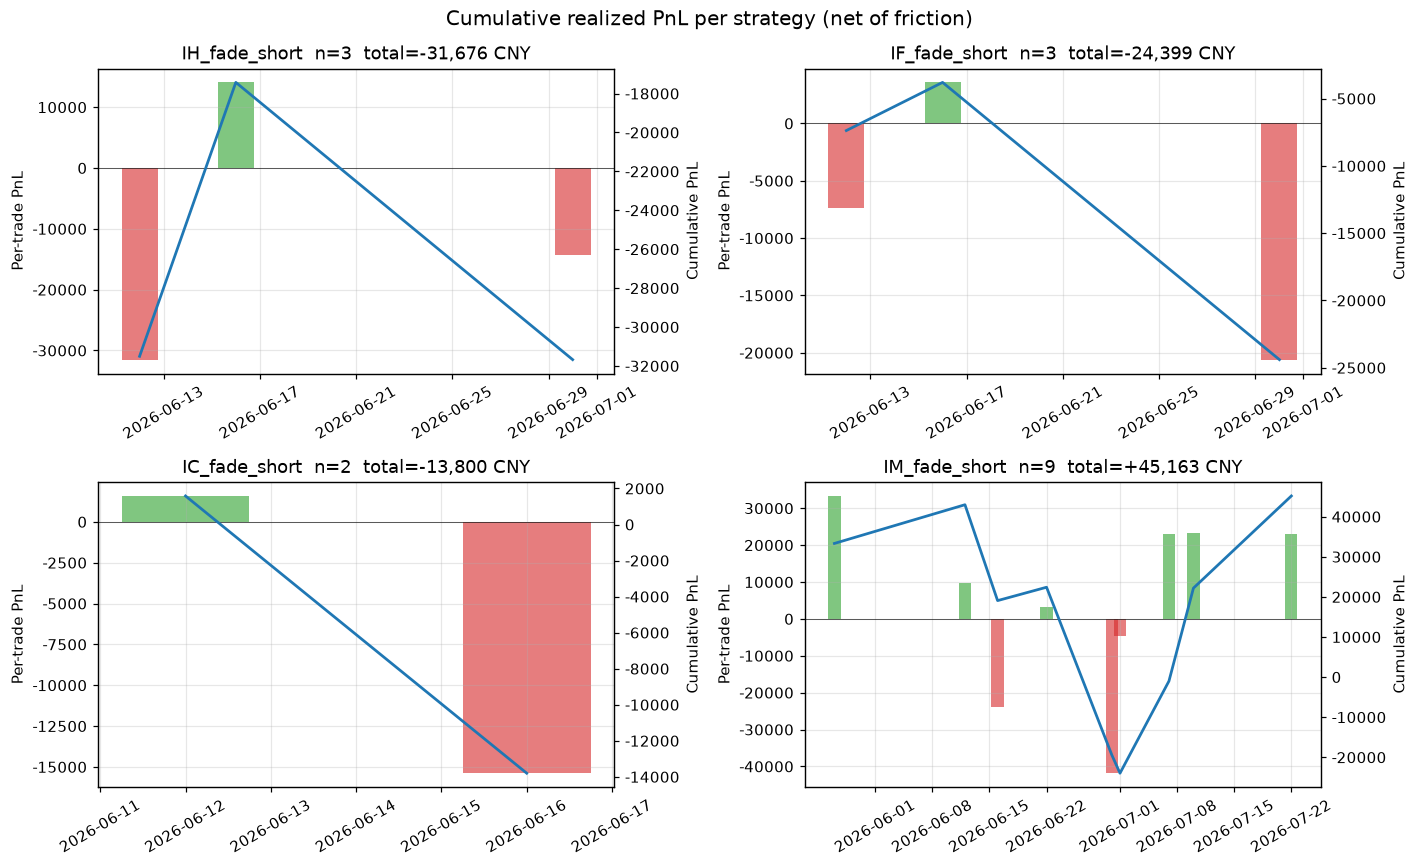
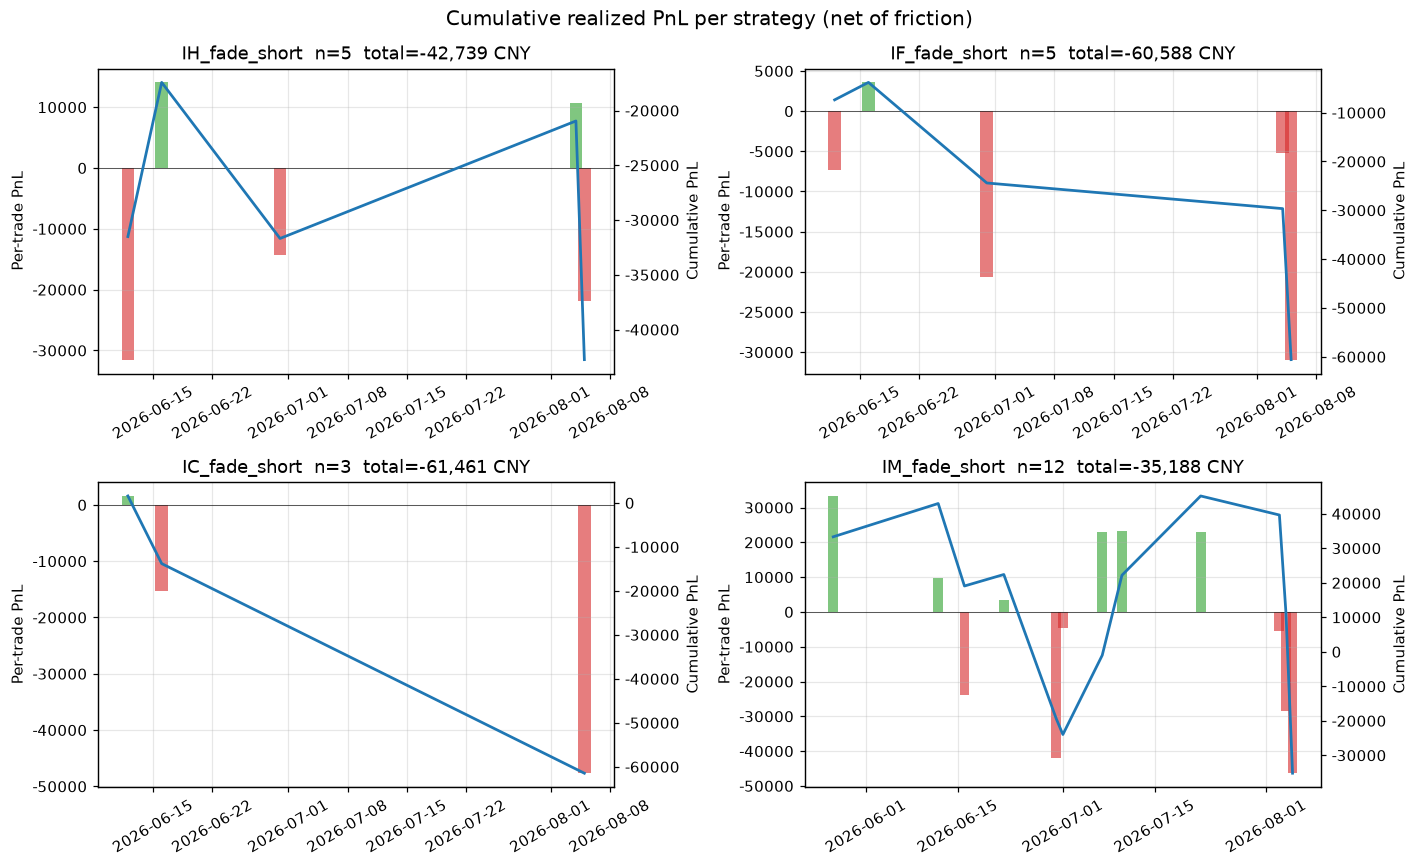
Weekly review 2026-08-07 (alerts=1)

diff --git a/weekly_review.md b/weekly_review.md
@@ -1,15 +1,16 @@
-## Weekly Review — 2026-07-31
+## Weekly Review — 2026-08-07
 
 _Window: rolling Sharpe over last 30 trades; loss-streak window 10 trades; decay alert if realised < 50% of historical_
 
-### ✅ No alerts
+### 🚨 Alerts
+- **IM_fade_short**: RECENT_LOSS_STREAK
 
 ### Performance summary
 | Strategy | Trades | Hit % | Mean bps | Realised Sharpe | Rolling Sharpe | Historical | Cum PnL | Last10 PnL | Alerts |
 |----------|--------|-------|----------|----------------|---------------|------------|---------|-----------|--------|
-| IH_fade_short | 3 | 33.3% | -61.6 | -1.724 | — | 0.76 | -31,676 | -31,676 | — |
-| IF_fade_short | 3 | 33.3% | -57.1 | -2.536 | — | 0.68 | -24,399 | -24,399 | — |
-| IC_fade_short | 2 | 50.0% | -42.0 | -2.148 | — | 0.49 | -13,800 | -13,800 | — |
-| IM_fade_short | 9 | 66.7% | +32.2 | 1.349 | 1.349 | 0.74 | +45,163 | +45,163 | — |
+| IH_fade_short | 5 | 40.0% | -49.9 | -1.597 | -1.597 | 0.76 | -42,739 | -42,739 | — |
+| IF_fade_short | 5 | 20.0% | -87.6 | -3.314 | -3.314 | 0.68 | -60,588 | -60,588 | — |
+| IC_fade_short | 3 | 33.3% | -133.8 | -2.994 | — | 0.49 | -61,461 | -61,461 | — |
+| IM_fade_short | 12 | 50.0% | -22.7 | -0.826 | -0.826 | 0.74 | -35,188 | -78,164 | RECENT_LOSS_STREAK |
 
 _Charts: rolling_sharpe.png + cumulative_pnl.png in repo_
